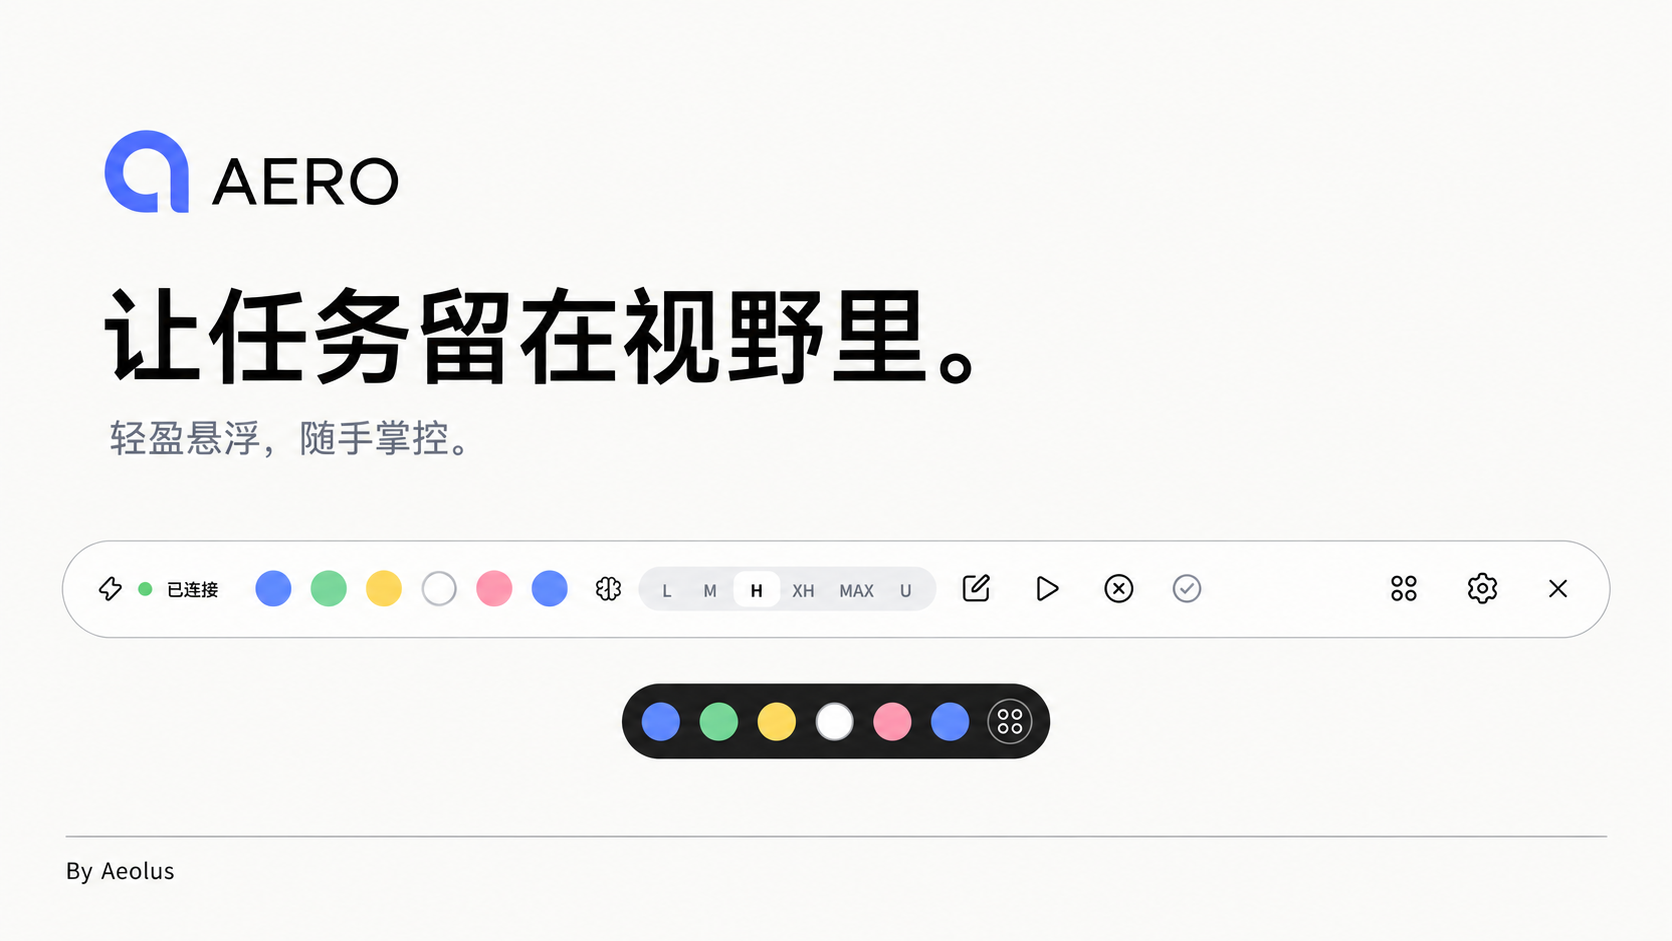
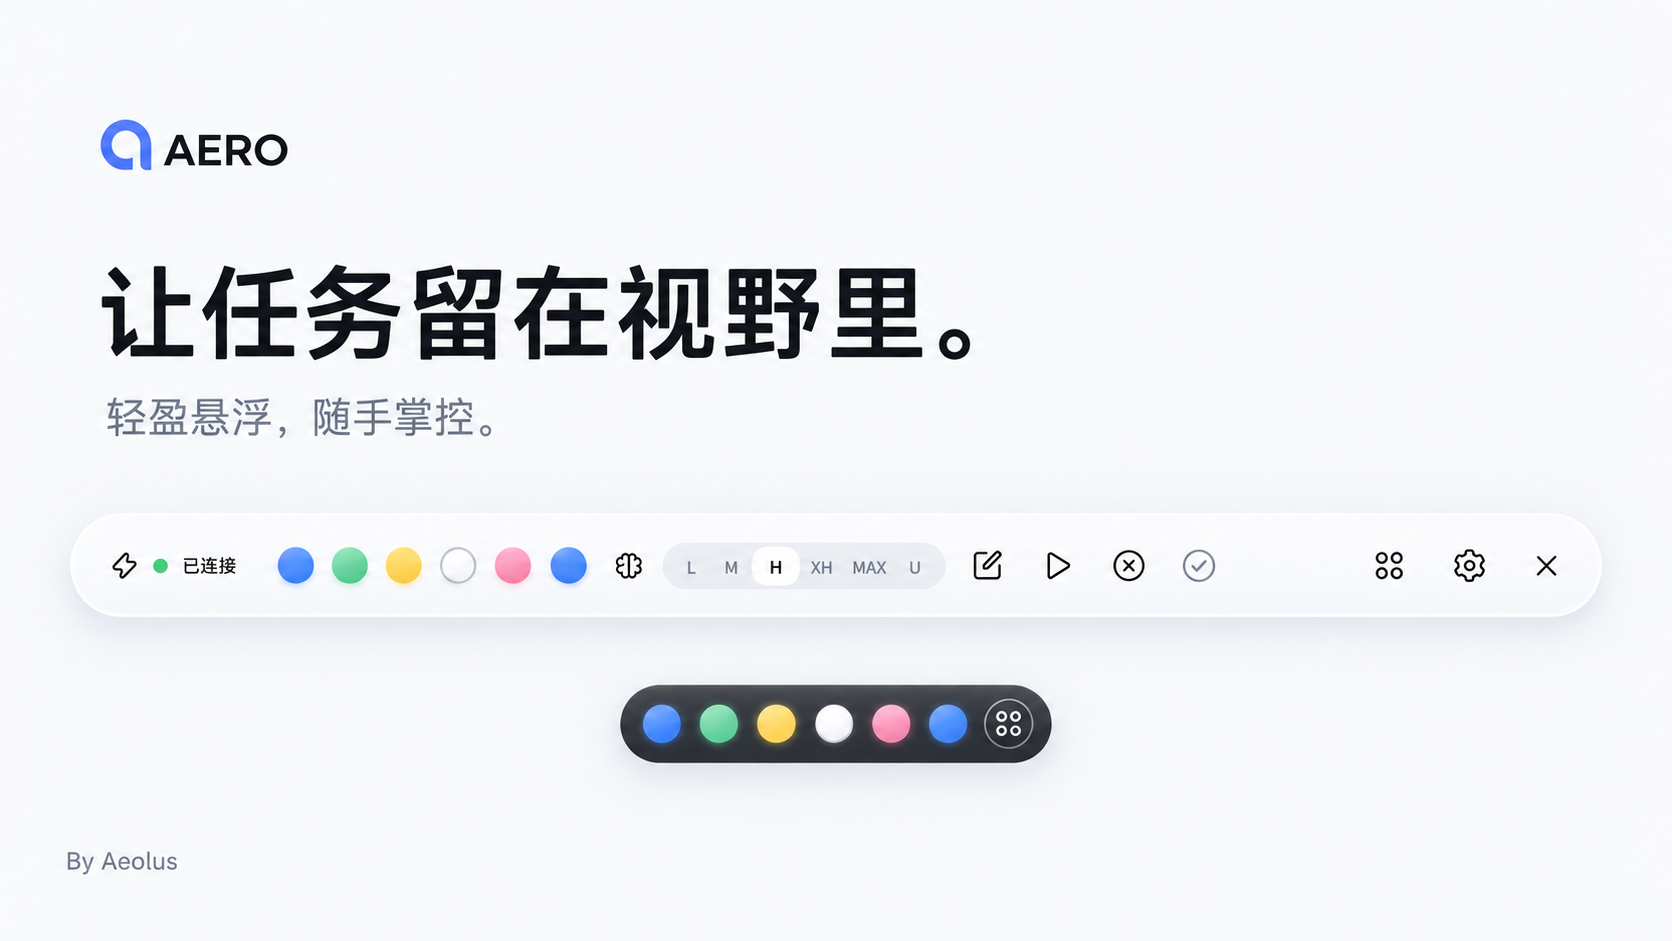
docs: refine Aero campaign hierarchy and subtle material detail

diff --git a/docs/promo-art-direction.md b/docs/promo-art-direction.md
@@ -2,16 +2,26 @@
 
 生成方式：内置 image_gen。宣传图不是实机截图，不替代产品功能说明。图片文案与构图方向如下，供后续品牌素材延展。
 
-统一规范：借鉴 Apple、OpenAI 的克制编辑排版，但只使用 AERO 自有品牌。三张图使用同一平面主视觉作为参考：暖白纯色背景、黑色标题、灰色副标题、左上 Logo 与 AERO 字标、底部细线和左下署名。大面积留白与统一无衬线字体层级；蓝色用于现有圆环式 Logo，其他色彩仅用于状态灯。去掉玻璃场景、装饰渐变、光晕、深阴影和地面反射，保持二维图形表达。生成图片是栅格视觉，不包含可核验的字体文件。Logo 沿用 `public/aero-logo.svg` 的圆环与右侧下垂笔画，不重新设计。宣传图风格转换不代表应用外观变化。
+统一规范：克制的编辑排版，精致来自比例、对齐、层级和细节，而不是装饰数量。近白底色与炭黑标题、灰色副标题；缩小左上 Logo 与 AERO 字标，让控件成为主角。统一无衬线字体风格和标题层级，去掉贯穿底部的装饰线。只在控件和配置步骤层使用极浅投影、细微边缘高光和近白材质变化，背景不添加玻璃舞台、光晕或地面反射。状态色保持一致，宣传图不是产品状态的实机证明。生成图片是栅格视觉，不包含可核验的字体文件。Logo 沿用 `public/aero-logo.svg` 的圆环与右侧下垂笔画，不重新设计。宣传图风格转换不代表应用外观变化。
+
+## 设计依据
+
+以下是 Apple 官方的界面设计原则，应用于宣传版式时属于 AERO 的设计转译，而不是 Apple 规定的营销模板：
+
+- [Design principles](https://developer.apple.com/design/human-interface-guidelines/design-principles)：简洁不等于极简主义；精工和愉悦应服务于产品目的，不能仅靠装饰。
+- [Layout](https://developer.apple.com/design/human-interface-guidelines/layout)：通过重要性排序、对齐和关联分组组织信息。
+- [Typography](https://developer.apple.com/design/human-interface-guidelines/typography)：用字号、字重和颜色建立层级，限制字体种类并确保可读性。
+- [Color](https://developer.apple.com/design/human-interface-guidelines/color)：颜色保持语义一致，不只依赖颜色表达含义。
+- [Materials](https://developer.apple.com/design/human-interface-guidelines/materials)：材质用于区分功能层与内容层，克制使用，不铺满背景。
 
 ## 品牌主视觉 · aero-promo-hero.png
 
-提示词：将既有横向 AERO 主视觉改为严格二维编辑海报，暖白纯色背景、黑色大标题、灰色副标题，大面积留白与模块网格。保留原有圆环式 Logo、字标和实际完整栏 / 迷你栏布局；灯为平面色圆，六灯加迷你返回按钮。移除玻璃舞台、渐变背景、阴影、反光、发光和立体场景。标题“让任务留在视野里。”，副标题“轻盈悬浮，随手掌控。”，底部细分隔线与“By Aeolus”。建立后续两张的统一字体、边距、Logo 和标题层级参考。
+提示词：精修既有 AERO 编辑海报，保持平面排版与大面积留白，近白底色、炭黑标题、灰色副标题。缩小原有 Logo 与字标，统一左对齐、字距与层级；不使用超粗海报字重。完整栏与迷你栏保留实际控件数量和语义，六灯加迷你返回按钮。只给控件极浅漫射投影、柔和缎面与细边缘高光，状态灯轻微透亮，不做实体硬件、深内凹、霓虹或玻璃背景场景。标题“让任务留在视野里。”，副标题“轻盈悬浮，随手掌控。”，小字“By Aeolus”。去掉底部装饰线，作为另外两张的统一参考。
 
 ## 迷你状态栏 · aero-promo-mini.png
 
-提示词：以新版平面主视觉为权威参考，统一暖白背景、Logo、字体层级、黑灰文字、边距与细线署名。居中展示平面黑色迷你栏，保留蓝、绿、黄、白、粉、蓝六灯及返回按钮，共七个圆形控件。标题“少一点切换，多一点专注。”，副标题“六个任务灯，安静地留在视野里。”。去掉所有玻璃背景、装饰光晕、立体按钮、反光和投影，不添加虚构功能。
+提示词：匹配精修主视觉的小 Logo、字体风格、层级、近白底色、边距与小字署名。迷你栏改为细腻石墨缎面，只有极浅投影和薄边缘高光，严格保留蓝、绿、黄、白、粉、蓝六灯与返回按钮，共七个均匀居中控件。灯带轻微通透，不做镜面球、强光晕或内凹。标题“少一点切换，多一点专注。”，副标题“六个任务灯，安静地留在视野里。”。不添加玻璃场景、实体设备或新功能。
 
 ## 本地语音唤醒 · aero-promo-voice.png
 
-提示词：语音配置海报匹配新版平面主视觉的字体、Logo、暖白背景、网格与署名，去掉玻璃卡片。标题“一句唤醒，回到对话。”，副标题“Hey Codex · 本地离线监听”。四个开放式编辑栏目由细竖线分隔，使用黑色线形图标：“01 绑定热键 / Ctrl+Shift+V”“02 配置环境 / 语音设置 → 一键配置”“03 选择麦克风 / 选择实际输入设备”“04 开启监听 / 检查配置 → 监听开关”。下方注明“触发后释放麦克风；Voice 结束后手动重新监听。”。保留准确配置内容，不添加云上传、无限语音承诺或假想应用界面。
+提示词：语音配置海报匹配精修主视觉的字体风格、小 Logo、近白背景、边距和署名。标题“一句唤醒，回到对话。”，副标题“Hey Codex · 本地离线监听”。四步位于一个连续的近白圆角分组层，极浅投影、低对比细分隔线；图标统一光学大小、圆角线宽和基线。保留“01 绑定热键 / Ctrl+Shift+V”“02 配置环境 / 语音设置 → 一键配置”“03 选择麦克风 / 选择实际输入设备”“04 开启监听 / 检查配置 → 监听开关”。下方注明“触发后释放麦克风；Voice 结束后手动重新监听。”。不做四块厚重悬浮玻璃卡，不添加假想界面或无限语音承诺。
